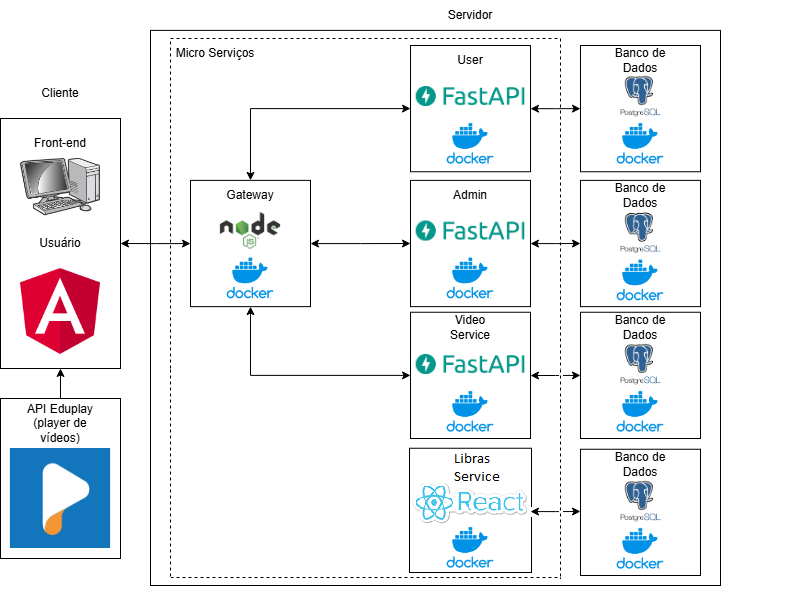
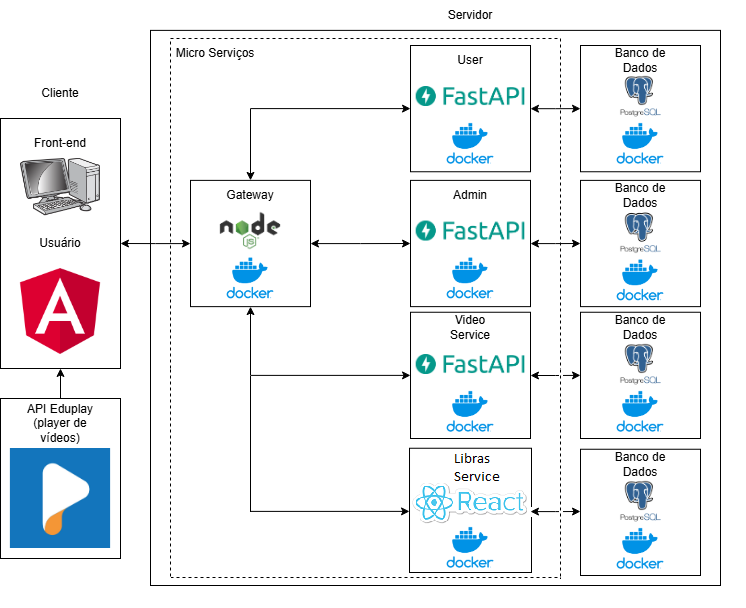
📝 corrigondo diagramas de arquitetura

Changed region(s): [[0.0, 0.0, 0.9558, 1.0], [0.0, 0.1216, 0.1542, 0.3649], [0.3083, 0.1824, 0.3391, 0.2128]]

diff --git a/docs/codigo/Documento_Arquitetura.md b/docs/codigo/Documento_Arquitetura.md
@@ -5,7 +5,7 @@
 Este documento é uma evolução do documento de arquitetura desenvolvido anteriormente ele detalha a estrutura do software de um projeto que incorpora Angular para o frontend. Ele é composto por quatro microsserviços desenvolvidos com FastAPI, um gateway em Node para facilitar a comunicação entre esses serviços e um banco de dados PostgreSQL, além de consumir a API do EduPlay para acessar os vídeos e programas ao vivo. A estrutura projetada tem foco na escalabilidade, resiliência e alto desempenho. Baseia-se no conceito de microsserviços, onde componentes distintos funcionam como serviços autônomos, interagindo por meio de interfaces claramente estabelecidas. Este é um esboço da arquitetura em um nível geral aqui ele teve a adição de um microserviço responsável por realizar as transações voltadas a API do  Vlibras:
 
 <p align="center">
-    <img src="/assets/Arquitetura.png" />
+    <img src="https://github.com/user-attachments/assets/cf0372e3-0d7a-41aa-8dbc-5344e16c0007" />
 </p>
 <p align="center">
 Fonte: Adaptado do semestre anterior
@@ -57,7 +57,7 @@ Composto por dois tipos de diagramas:
 ### 4.1. Diagrama de pacote Front-end
 
 <p align="center">
-    <img src="/assets/pacote-frontend.png" />
+    <img src="https://github.com/user-attachments/assets/c7da6cf2-43b2-48f4-a55d-8f47ac2b16dc" />
 </p>
 
 Descrições breves dos pacotes:
@@ -77,7 +77,7 @@ Descrições breves dos pacotes:
 ### 4.2. Diagrama de pacote Back-end
 
 <p align="center">
-    <img src="/assets/pacote-backend.png" />
+    <img src="https://github.com/user-attachments/assets/579d438c-2e83-4081-97d5-6044b0ab56d7" />
 </p>
 
 Descrições breves dos pacotes:
@@ -94,7 +94,7 @@ Descrições breves dos pacotes:
 ### 4.3. Diagrama de implantação
 
 <p align="center">
-    <img src="/assets/implantacao.png" />
+    <img src="https://github.com/user-attachments/assets/92c1d2dc-8f37-49f5-9984-a3b8d6fb20cd" />
 </p>
 
 ## 5. Diagrama Entidade Relacionamento (DER)
@@ -102,7 +102,7 @@ Descrições breves dos pacotes:
 O diagrama de entidade-relacionamento serve como uma ferramenta gráfica para modelar bancos de dados, proporcionando uma visão clara e abrangente da estrutura do banco de dados. Este diagrama é útil para equipes de desenvolvimento, pois descreve visualmente os objetos (entidades) que fazem parte do projeto, incluindo suas características específicas (atributos) e as formas como se relacionam entre si.
 
 <p align="center">
-    <img src="/assets/DER.png" />
+    <img src="https://github.com/user-attachments/assets/b5f546c1-e4d0-40e7-b96b-c31f0bfd50a3" />
 </p>
 
 ## 6. Diagrama Lógico de Dados (DLD)
@@ -110,7 +110,7 @@ O diagrama de entidade-relacionamento serve como uma ferramenta gráfica para mo
 O diagrama lógico de dados é uma representação detalhada que se aproxima da estrutura final a ser implementada no banco de dados. Este diagrama inclui tabelas, especificando todos os atributos, além de identificar as chaves primárias e estrangeiras. Ele define a estrutura dos elementos de dados e seus inter-relacionamentos, descrevendo assim as necessidades de dados requeridas para o projeto.
 
 <p align="center">
-    <img src="/assets/DLD.png" />
+    <img src="https://github.com/user-attachments/assets/ec42d225-fa3d-4e4f-a4df-d1176ddee4de" />
 </p>
 
 ## 5. Referências Bibliográficas
@@ -124,3 +124,4 @@ Geekhunter. O que são microsserviços e como funcionam?. Disponível em: https:
 | **Data**   | **Descrição**                                    | **Autore(es)**    |
 | ---------- | ------------------------------------------------ | ----------------- |
 | 09/12/2024 | Criação do Documento                              | [Artur Vinicius](https://github.com/ArturVinicius)          |
+| 16/12/2024 | Correção dos diagramas                            | [Erick Melo](https://github.com/ErickMVdO)          |
